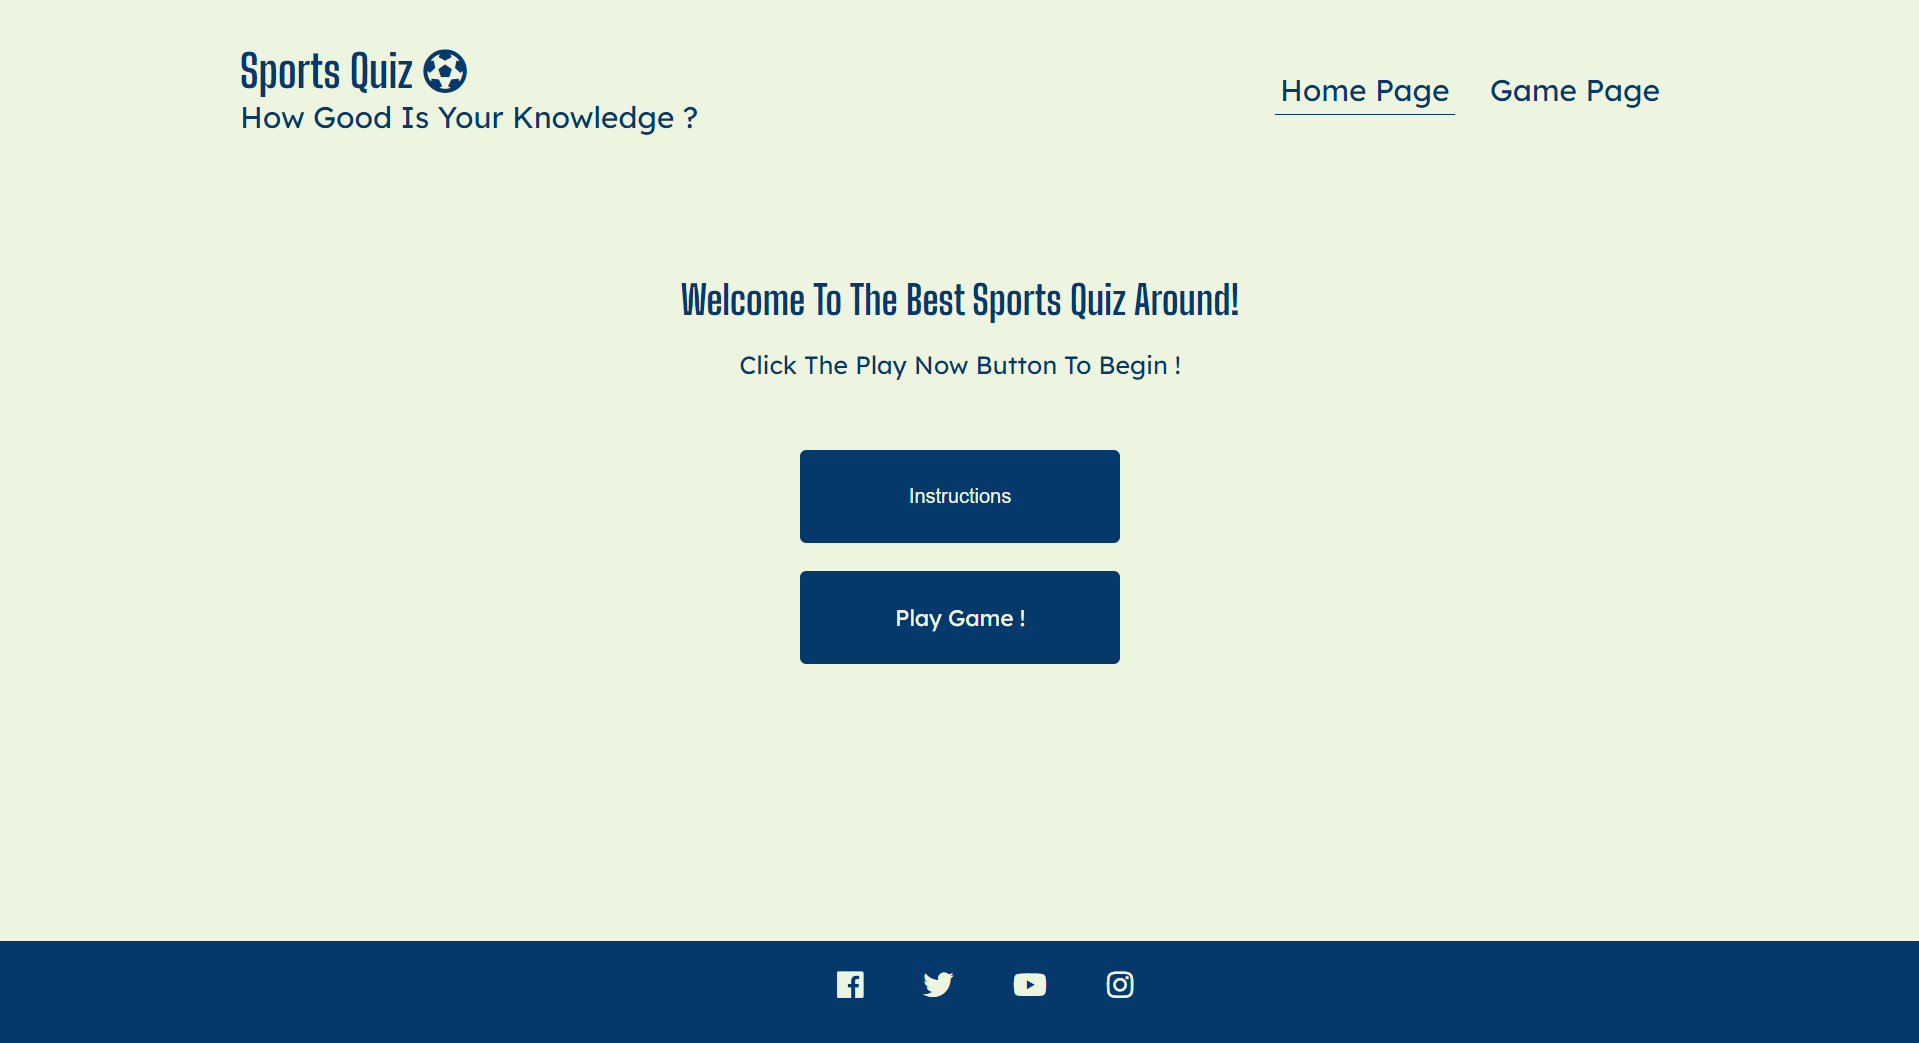
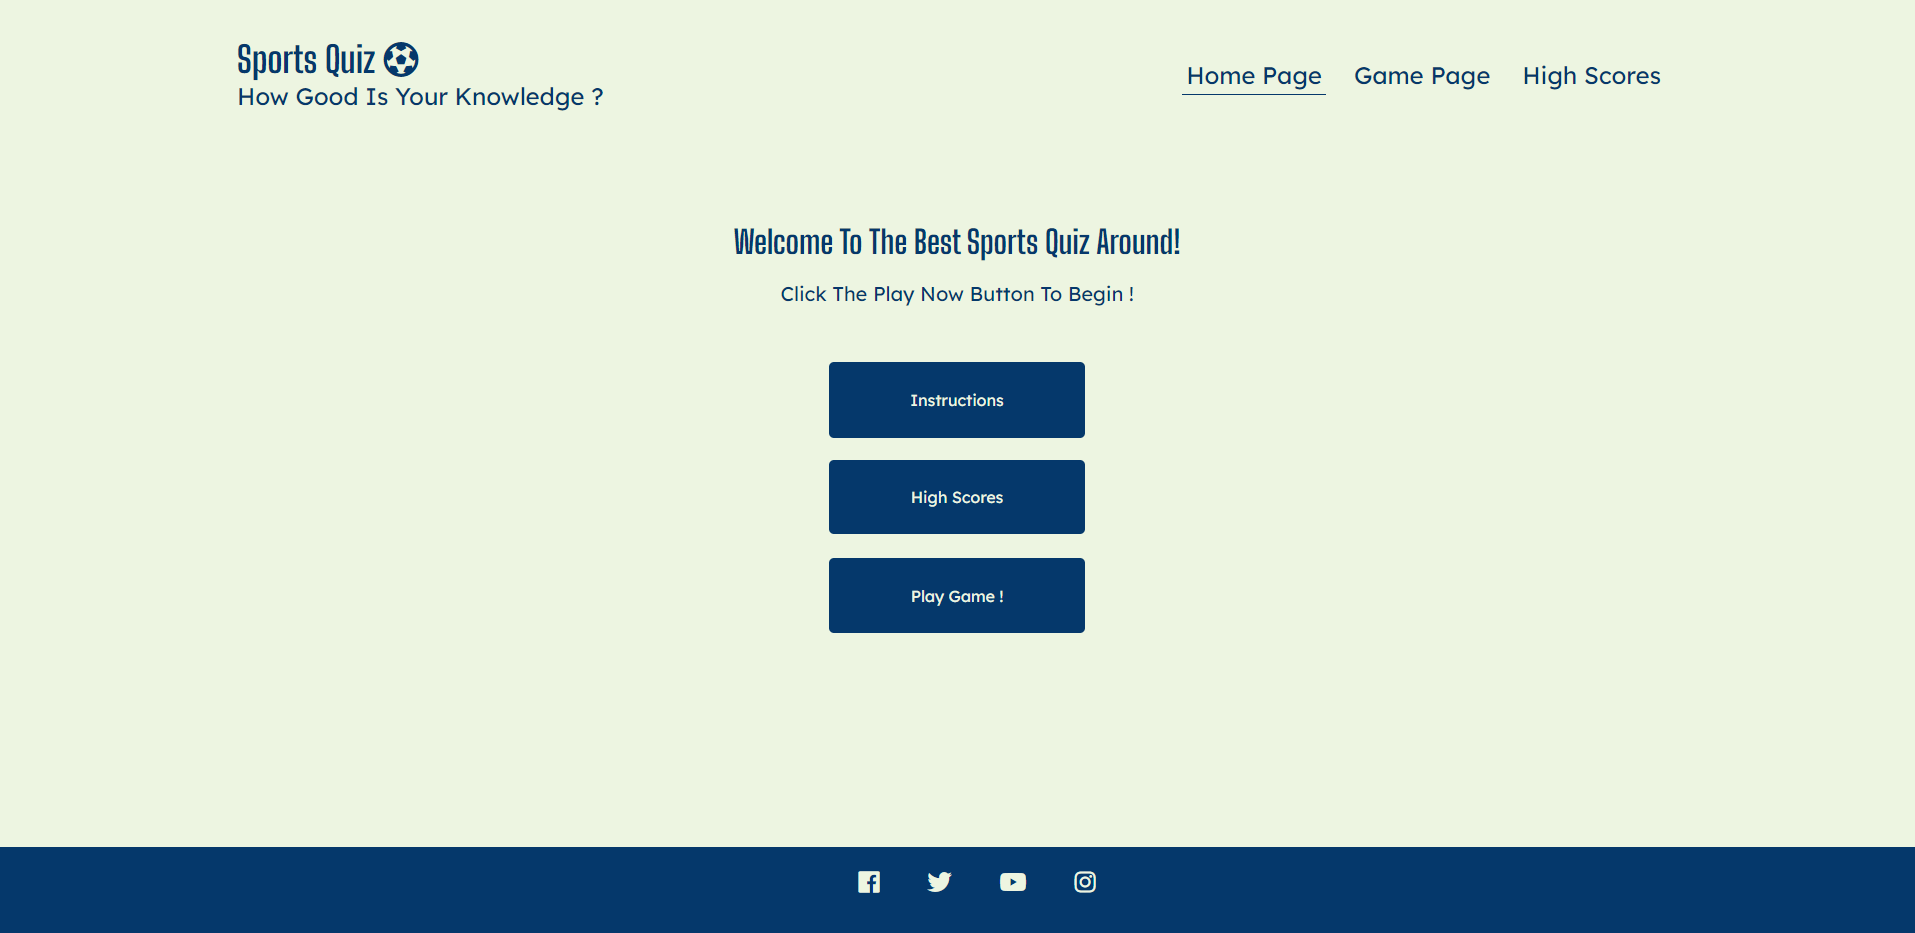
add more styles to media query styles

diff --git a/assets/styles/styles.css b/assets/styles/styles.css
@@ -342,6 +342,7 @@ footer a {
 @media (min-width: 320px) and (max-width: 789px) {
     .container {
       width: 90%;
+      padding: 20px;
     }
     .games-container {
       width: 100%;
@@ -354,8 +355,15 @@ footer a {
       margin-bottom: 1rem;
       text-align: center;
     }
+    
     nav ul li {
       text-align: center;
+    }
+    .instructions-container{
+      text-align: left;
+    }
+    .instructions-container ol {
+      list-style-type: decimal;
     }
     /* game nav */
     #timer {
@@ -365,5 +373,6 @@ footer a {
     #next-btn {
       height: 74px;
       width: 201.59px;
+      margin-bottom: 150px;
     }
   }

diff --git a/assets/javascript/game-page.js b/assets/javascript/game-page.js
@@ -41,7 +41,6 @@ checkResultsBtn.addEventListener("click", checkResults);
 playAgainButton.addEventListener("click", playAgain);
 
 // Game Page Functions
-
 // starts game upon clicking start game button
 function startGame() {
     welcomePage.style.display = "none";
@@ -213,7 +212,8 @@ username.addEventListener("keyup", function (){
   
       localStorage.setItem("highScores" , JSON.stringify(highScores));
   
-      window.location.assign("/")
+    //   window.location.assign("/")
+    window.location.href="index.html"
   
   }
   function playAgain() {

diff --git a/README.md b/README.md
@@ -1,6 +1,6 @@
 <h1 align="center">Sports Quiz</h1>
 
-[View the live project here.](https://jjconway23.github.io/portfolio-project-2/)
+[View the live project here.](https://jjconway23.github.io/sports-quiz/)
 
 This is a sports quiz website that allows the user to play a interesting sports quiz which tests the users sports knowledge in 7 different sports. It has a home page, which was designed to be minimalistic and incudes two buttons; instructions and play game. When clicking instructions it will display the game instructions and when clicking play game it takes you to the game page. On the game page you will have the play button which begins the quiz. It was designed responsively so devices from phones to monitors can view them.
 
@@ -18,10 +18,12 @@ This is a sports quiz website that allows the user to play a interesting sports 
     
     -   #### Returning Visitor Goals
 
-        1. As a Returning Visitor, I want to see new sports quizes added
+        1. As a Returning Visitor, I want to see new sports quizes added.
+        2. As a Returning Visitor, I want to see if i can beat my old high score.
 
     -   #### Frequent User Goals
         1. As a Frequent User, I want to check to see if there are any newly added sports quizes added
+        2. As a Frequesnt User, I want to challenge myself by taking these quizes and to see if i can get a better score.
 
 -   ### Design
     -   #### Colour Scheme
@@ -107,7 +109,7 @@ The W3C Markup Validator and W3C CSS Validator Services were used to validate ev
         1. The website is fluid, designed with UX at the top of my priorities. Each page has  navigation bar, each link descriptive and is designed so that the user can easily remember the design of my page after a couple clicks.
         2. At the bottom of each page there is links to our social media accounts.
         
-    3. As a First Time Visitor, I want to look for a link directing me to what ive come to the site for. Attempting my Quiz.
+    3. As a First Time Visitor, I want to look for a link directing me to what ive come to the site for. Attempting a sports Quiz.
         1. Once the new visitor has arrived on the page they are immediately met with a header that explains what the site is for. 
         2. The user can also scroll to the bottom of any page on the site to locate social media links in the footer.
 
